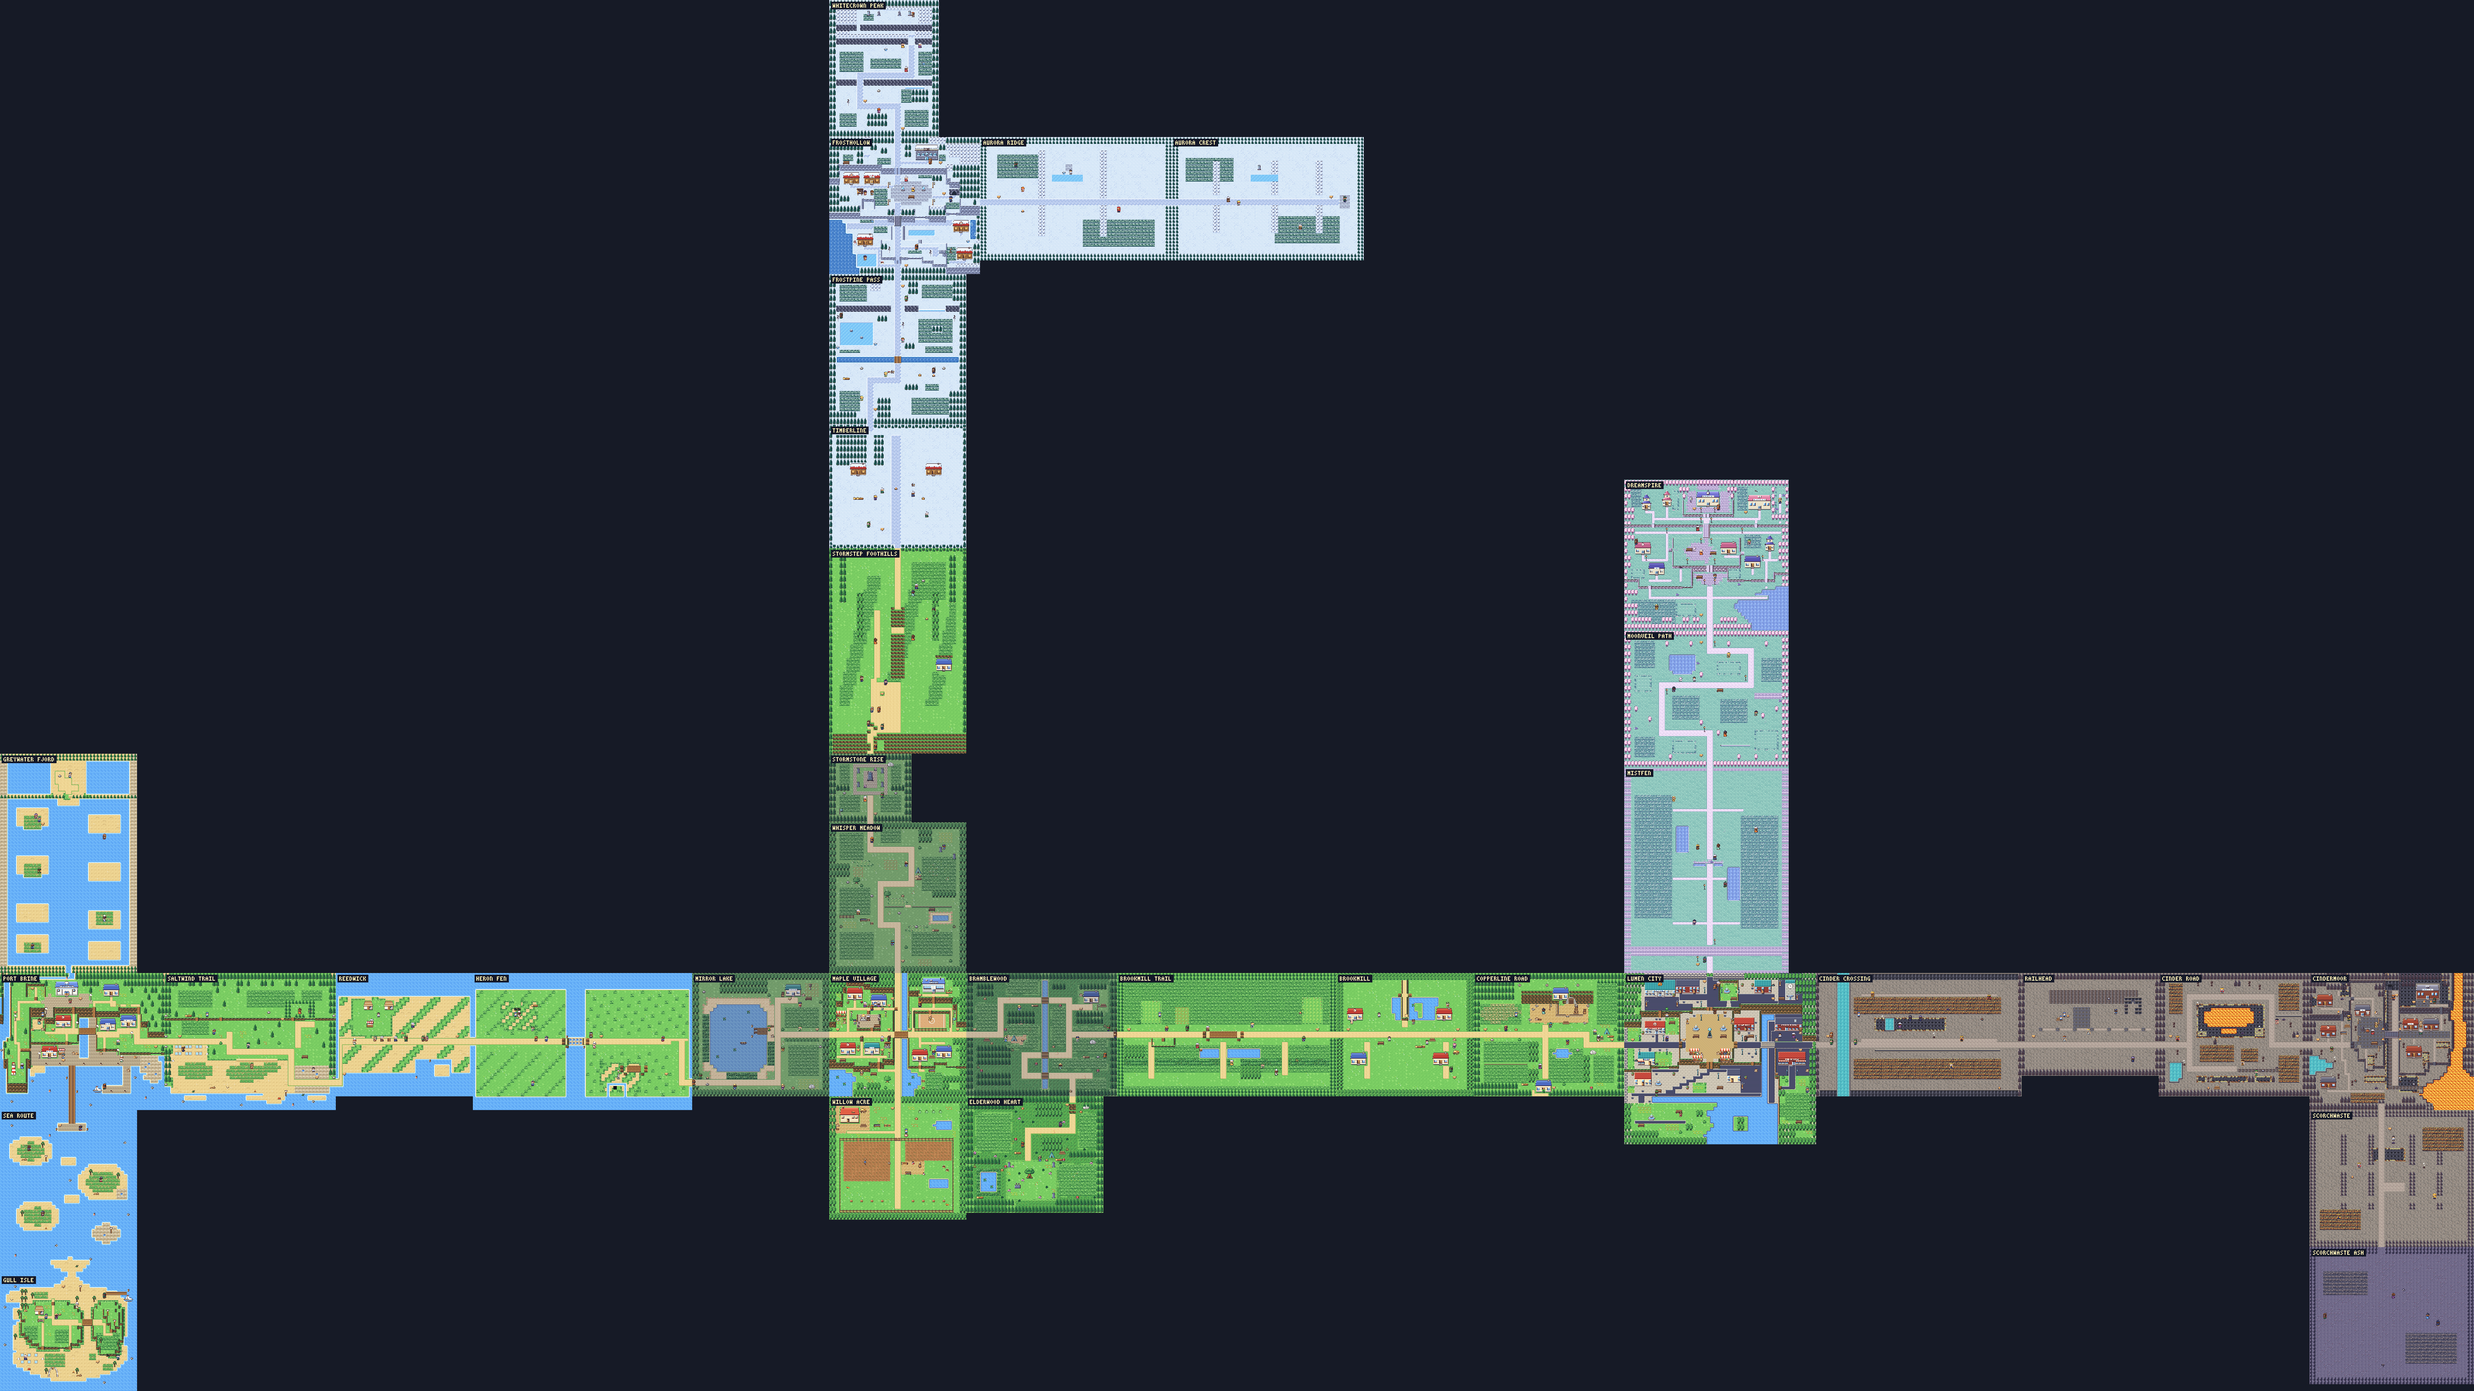
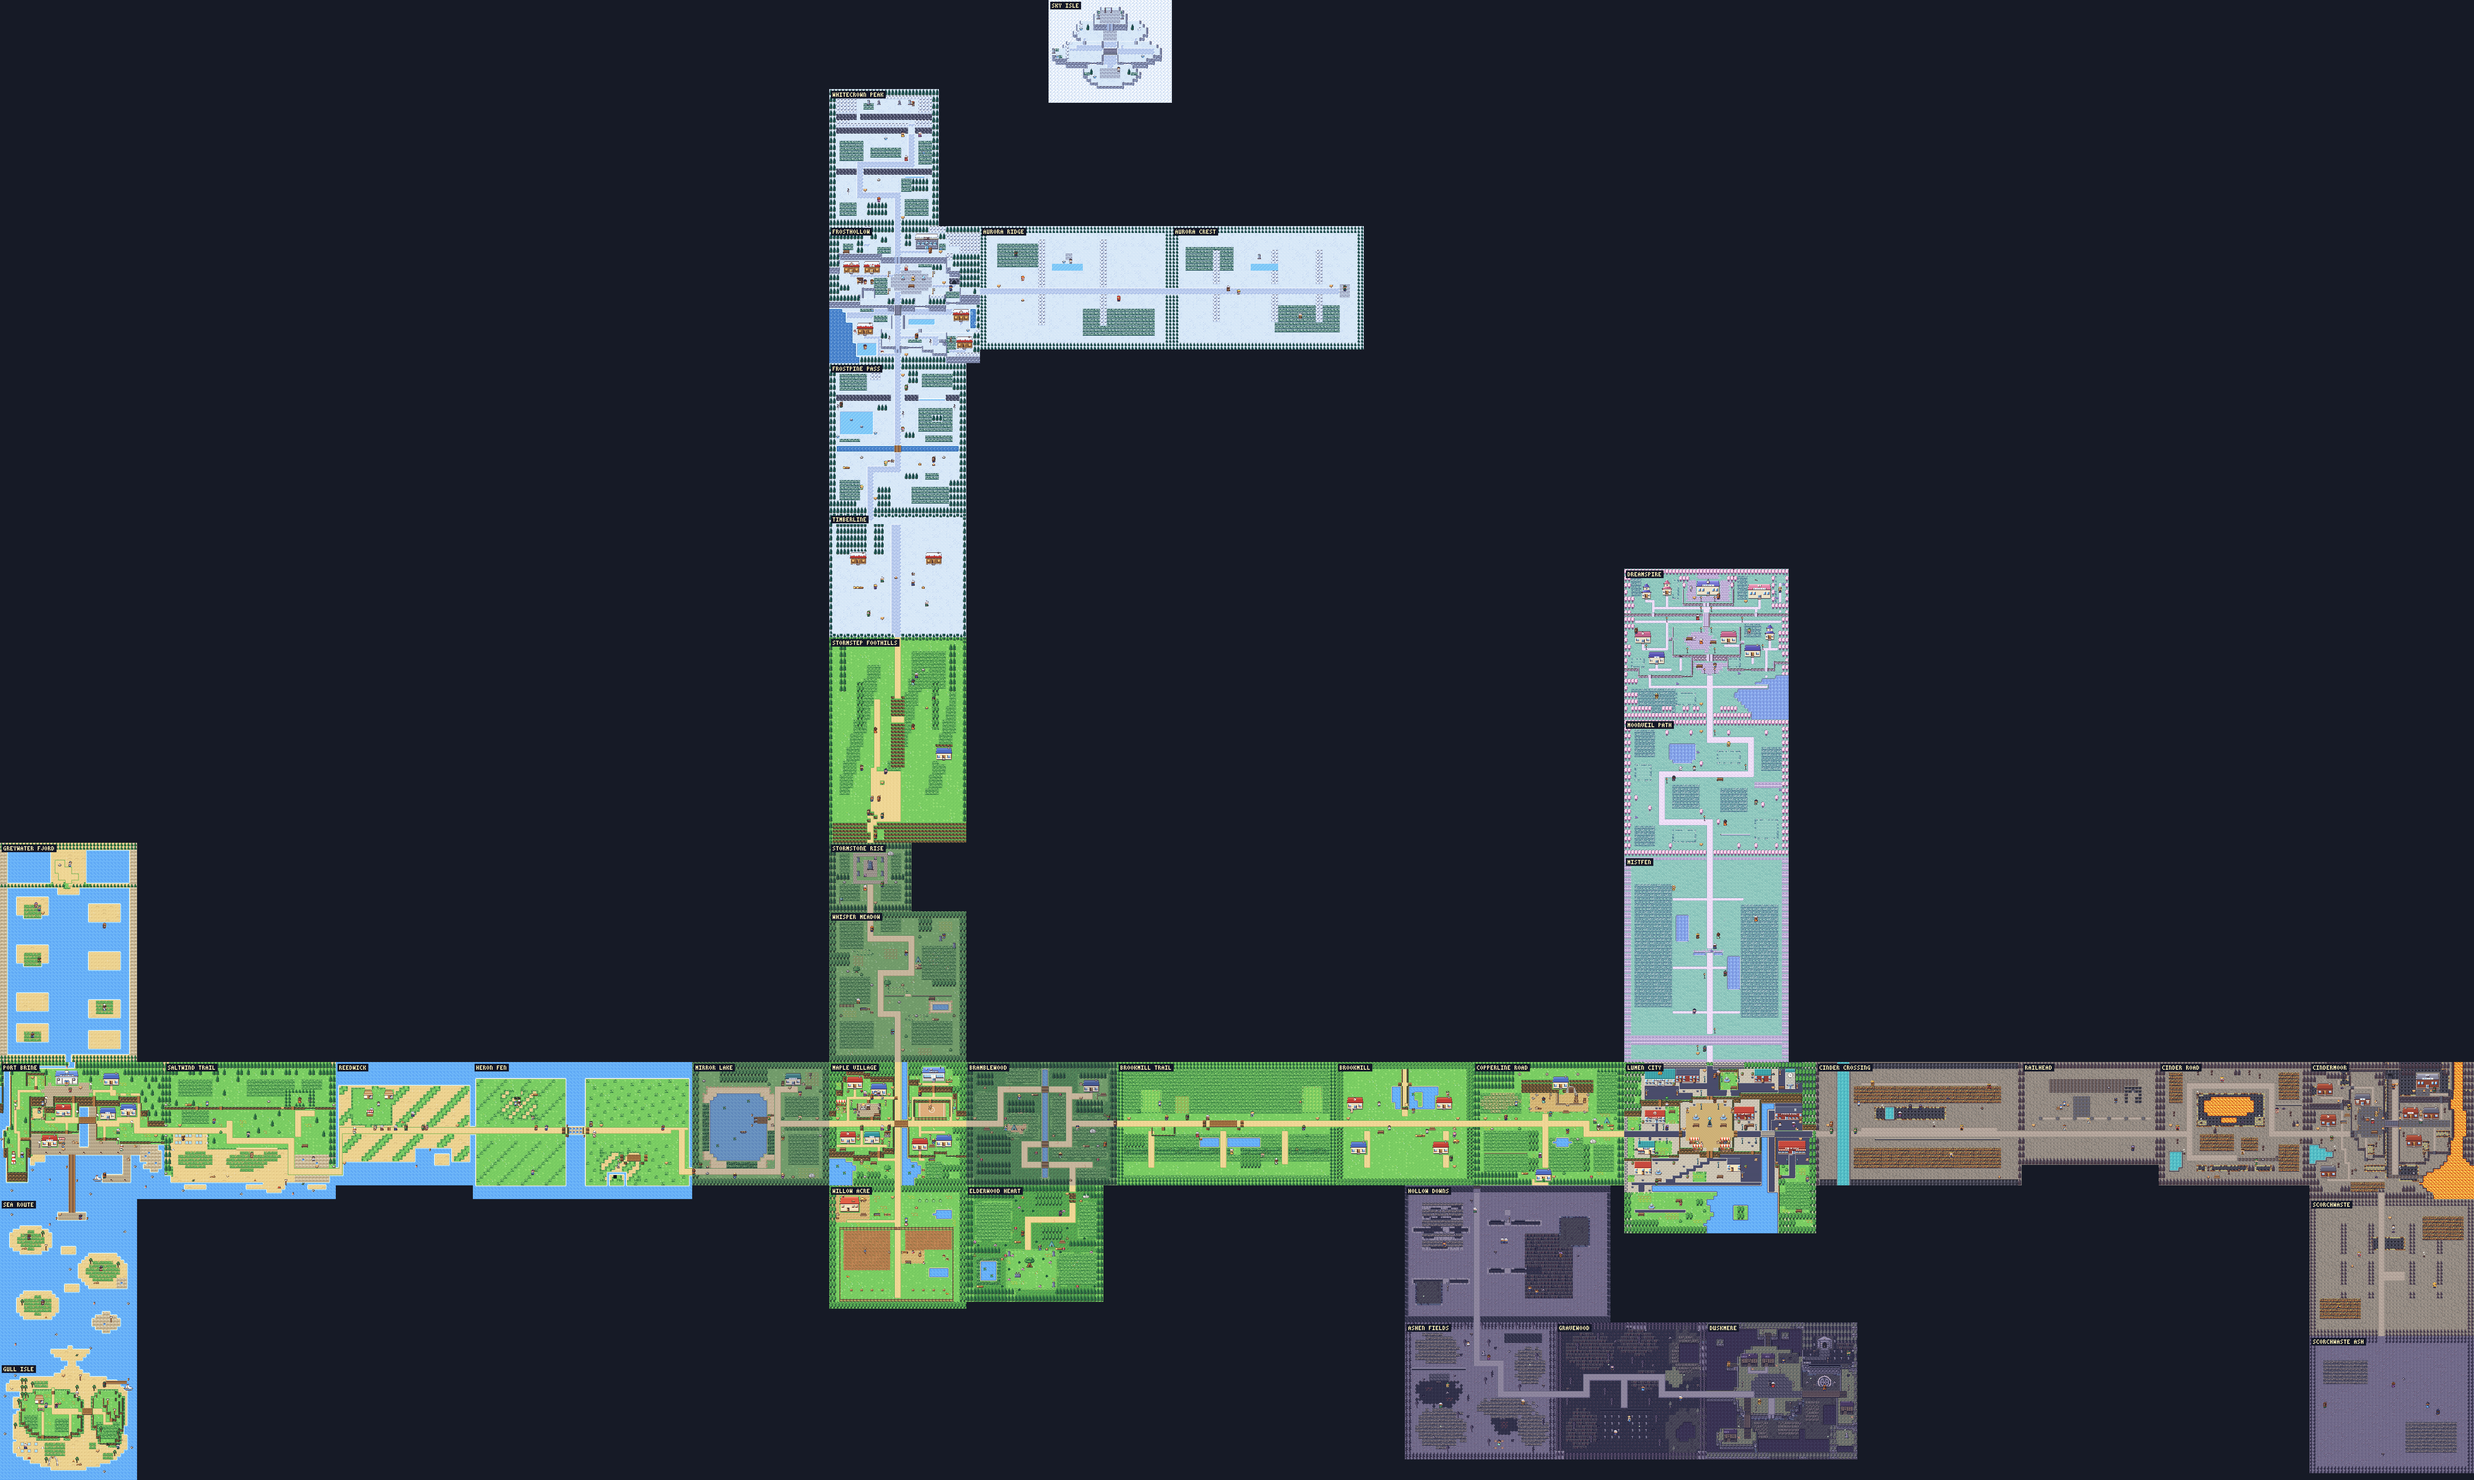
Position March and Sky Isle on world map

Changed region(s): [[0.0, 0.0, 1.0, 1.0]]

diff --git a/tools/render_world.c b/tools/render_world.c
@@ -161,7 +161,8 @@ int main(int argc, char **argv)
         const MapDef *d = &MAPS[m];
         layout_maps[m].w = d->w;
         layout_maps[m].h = d->h;
-        layout_maps[m].outdoor = (d->flags & MF_OUTDOOR) && !(d->flags & MF_DEBUG);
+        layout_maps[m].outdoor = (d->flags & MF_OUTDOOR) && !(d->flags & MF_DEBUG) &&
+                                 strncmp(d->name, "TEST ", 5) != 0;
         for (int dir = 0; dir < 4; dir++) {
             layout_maps[m].link[dir] = d->link[dir];
             layout_maps[m].off[dir] = d->link_off[dir];

diff --git a/README.md b/README.md
@@ -151,11 +151,11 @@ mGBA lets you change any of these under *Settings → Controllers*.
 
 The eastern Brookmill Trail joins Brookmill and Copperline; Heron Fen and Reedwick open the western return. Cinder Crossing leads to Railhead, while Mistfen links the far routes to Moonveil. Stormstep Foothills climbs toward Timberline; Hollow Downs leads toward the March, with Waychapel as an indoor stop. The [progression contract](docs/plans/01_progression_contract.md) gives the intended gate order; [integration status](docs/HANDOFF.md) records outstanding mechanics.
 
-The stitched image uses the game renderer's edge connections and `WORLD_POS` placement hints. Warp-only or disconnected outdoors without hints (including Hollow Downs) cannot be positioned in it; their individual renders appear below. Doors, ferry crossings, and flight do not appear as drawn edge connections.
+The stitched image uses the game renderer's edge connections and `WORLD_POS` hints for warp-only areas such as Hollow Downs and Sky Isle. Doors, ferry crossings, and flight do not appear as drawn edge connections.
 
-<img src="docs/images/routes/world.png" alt="Game-rendered outdoor maps with edge-linked route corridors; unpositioned maps are omitted">
+<img src="docs/images/routes/world.png" alt="Game-rendered outdoor maps with edge-linked routes and positioned warp-only areas">
 
-<sub>Game-rendered outdoor layout at noon in clear weather; 34 positioned maps, not a gameplay screenshot.</sub>
+<sub>Game-rendered outdoor layout at noon in clear weather; 39 positioned maps, not a gameplay screenshot.</sub>
 
 Each picture below is a **labeled full-map render from the game renderer**, not a captured player viewport or proof of event weather or project state.
 
